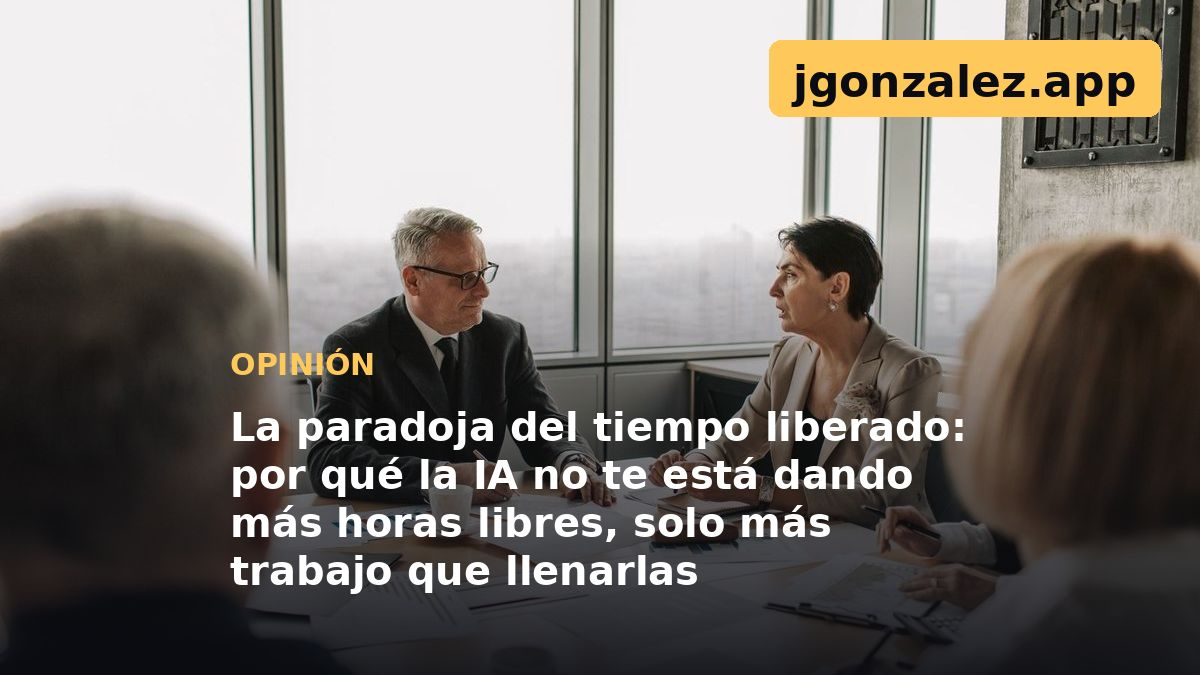
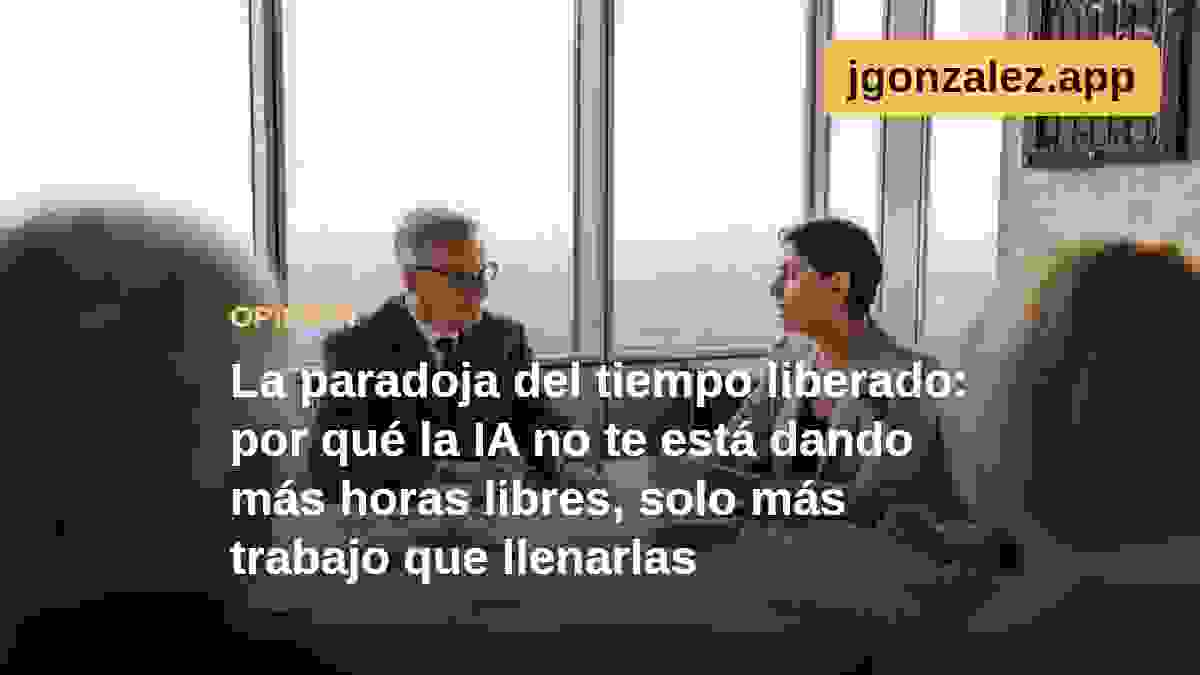
Actualiza Pulso de Mercado Daily 14/10/2026 con el cierre de mercado
CPI de septiembre y cierres reales del miércoles siguen sin poder
confirmarse pese a buscarlos después del cierre de mercado; se retiran del
Pendientes de la mañana la caracterización no corroborada de "peor sesión
en más de un año" de Citigroup (la caída de 5.6% sí se corrobora con una
segunda fuente) y el segundo fallecimiento de huracán Simón en Baja
California, que no se pudo confirmar.

Corrige también el campo imagen de la nota del ensayo de la paradoja del
tiempo liberado, que el auto-fix de build detectó apuntando a la foto
cruda del banco.

Changed region(s): [[0.0, 0.0, 1.0, 0.8711], [0.0617, 0.4044, 0.1542, 0.4978]]

diff --git a/content/blog/pulso-mercado-daily-2026-10-14.md b/content/blog/pulso-mercado-daily-2026-10-14.md
@@ -11,7 +11,7 @@ tags:
   - CPI
   - Huracán Simón
   - Peso mexicano
-resumen: 'El S&P 500 y el Nasdaq cerraron prácticamente planos el martes mientras el mercado digería un día de resultados bancarios mixto: Goldman Sachs subió con fuerza tras superar expectativas, mientras Citigroup habría tenido su peor sesión en más de un año pese a un reporte sólido. El peso se debilitó ligeramente aun con un IPC en máximos de dos meses y medio.'
+resumen: 'El mercado cerró el miércoles sin que pudiéramos confirmar todavía, ni el cierre real de los índices ni la cifra del CPI de septiembre publicada esta misma mañana por el BLS. Lo que sí quedó más claro es la dispersión del martes bancario: Goldman Sachs subió con fuerza, mientras Citigroup habría caído 5.6% pese a un reporte sólido, una reacción que una segunda fuente corrobora parcialmente.'
 imagen: /blog/portadas/mercados-hoy-fija.jpg
 socialImagen: /blog/social/pulso-mercado-daily-2026-10-14.jpg
 ---
@@ -32,9 +32,9 @@ socialImagen: /blog/social/pulso-mercado-daily-2026-10-14.jpg
 
 ## Market Regime
 
-El mercado cerró el martes prácticamente sin cambios en los índices principales, pero esa calma agregada escondió una dispersión real dentro del propio día de resultados bancarios: Goldman Sachs subió con fuerza tras superar ampliamente el consenso, mientras al menos una fuente reportó que Citigroup tuvo su peor sesión en más de un año pese a un reporte de utilidad por encima de expectativas —una combinación que, de confirmarse, sugeriría que el mercado está premiando la calidad específica del negocio de cada banco más que el titular de "superó o no superó" consenso. En México, el IPC extendió a cuatro sesiones consecutivas al alza y tocó su nivel más alto desde el 30 de julio, incluso con el peso debilitándose ligeramente frente al dólar.
+Llegamos al cierre del miércoles sin poder confirmar, con una fuente de mercado en tiempo real, los niveles reales de cierre de hoy para ninguno de los índices principales ni para el CPI de septiembre que el BLS publicó esta misma mañana —una brecha informativa notable, dado que se trata del dato macro central de la semana y de la sesión que el propio mercado ya cerró hace varias horas al momento de escribir esta actualización. Lo que sí pudimos precisar, con una segunda fuente que corrobora parcialmente la primera, es que Citigroup efectivamente cayó con fuerza el martes —alrededor de 5.6%, en volumen más de dos veces superior al promedio— pese a un reporte de utilidad por encima de consenso; retiramos de esta edición la caracterización de "su peor sesión en más de un año", que solo tuvo una fuente y no pudimos corroborar de forma independiente. Goldman Sachs, en cambio, subió con fuerza tras superar ampliamente el consenso. En México, el IPC había extendido a cuatro sesiones consecutivas al alza hasta el cierre del martes, tocando su nivel más alto desde el 30 de julio, aunque no pudimos confirmar todavía si esa racha continuó en la sesión de hoy.
 
-Scorecard: Trend → (índices en rango angosto, sin cambio de tendencia) · Breadth → (mixta, con dispersión notable dentro del sector bancario) · Momentum → (sin señal clara) · Volatility → (VIX en zona baja, sin confirmación exacta) · Rates → (10 años en ~5.22%, sin movimiento grande) · USD → (dólar ligeramente más fuerte frente al peso)
+Scorecard: Trend → (sin cierre confirmado de hoy; índices en rango angosto hasta el martes) · Breadth → (mixta, con dispersión notable dentro del sector bancario del martes) · Momentum → (sin señal clara) · Volatility → (sin cierre confirmado del VIX de hoy) · Rates → (10 años en ~5.22% hasta el martes, sin cierre de hoy confirmado) · USD → (sin cierre confirmado de hoy)
 
 ## Qué importó hoy
 
@@ -42,15 +42,15 @@ Scorecard: Trend → (índices en rango angosto, sin cambio de tendencia) · Bre
 
 **JPMorgan tuvo un tropiezo poco frecuente —EPS de $5.57 frente a un consenso de $5.90— pero su acción se movió relativamente poco, cerrando cerca de 0.9% a la baja pese a un crecimiento de 6% en utilidad neta.** La reacción contenida sugiere que el mercado no interpretó el resultado como una señal de alarma estructural, más bien como un bache puntual ligado en parte a pérdidas en valores de inversión que el propio banco reportó. Horizonte: Position.
 
-**Al menos una fuente reportó que Citigroup cayó 5.6% el martes, su peor sesión desde abril de 2025, pese a un EPS de $2.85 que superó el consenso de $2.67.** Esta cifra de caída no la pudimos corroborar todavía con una segunda fuente independiente, así que la presentamos con esa reserva explícita; de confirmarse, sería la divergencia más llamativa del día entre un resultado contable positivo y una reacción bursátil claramente negativa. Horizonte: Swing.
+**Citigroup cayó aproximadamente 5.6% el martes, en volumen más de dos veces superior al promedio, pese a un EPS de $2.85 que superó el consenso de $2.67.** Una segunda fuente corrobora la magnitud de la caída y el volumen elevado, aunque no pudimos confirmar de forma independiente la caracterización de "peor sesión en más de un año" que circuló en la cobertura inicial, así que la retiramos de esta edición. Sigue siendo la divergencia más llamativa del día entre un resultado contable positivo y una reacción bursátil claramente negativa. Horizonte: Swing.
 
 **El S&P/BMV IPC extendió a cuatro sesiones consecutivas de ganancias y cerró en 66,965.15 puntos (+0.33%), su nivel más alto desde el 30 de julio, incluso con el peso debilitándose frente al dólar a 18.3771 por dólar.** La combinación de un índice mexicano en máximos de dos meses y medio con una moneda local ligeramente más débil es una divergencia que vale la pena vigilar en las próximas sesiones, en vez de asumir que ambos activos deberían moverse siempre en la misma dirección. Horizonte: Position.
 
-**El CPI de septiembre en Estados Unidos, el dato macro central de la semana, estaba programado para esta misma mañana miércoles a las 8:30am hora del este, pero no logramos confirmar todavía la cifra real publicada por el BLS al momento de cerrar esta edición.** El consenso previo a la publicación apuntaba a una aceleración hacia 3.6%-3.7% anual, impulsada por precios de gasolina de septiembre, frente a 3.4% del mes anterior. Horizonte: Macro.
+**El CPI de septiembre en Estados Unidos se publicó esta misma mañana a las 8:30am hora del este, pero no logramos confirmar su cifra real ni siquiera varias horas después del cierre de mercado, pese a buscarla explícitamente en esta actualización de cierre de sesión.** Es una brecha informativa notable para el evento macro central de la semana. El consenso previo a la publicación apuntaba a una aceleración hacia 3.6%-3.7% anual, impulsada por precios de gasolina de septiembre, frente a 3.4% del mes anterior. Horizonte: Macro.
 
 ## Macro
 
-El dato central de hoy es el CPI de septiembre, cuya cifra real no pudimos confirmar todavía con el BLS ni con cobertura de prensa que reportara el número ya publicado —la ventana de búsqueda disponible al momento de escribir esta edición seguía mostrando únicamente previsiones previas a la publicación. El nowcast de la Fed de Cleveland del 7 de octubre ubicaba la expectativa en 3.60% general y 2.39% subyacente; el mes anterior (agosto) cerró en 3.4% general y 2.4% subyacente. Mañana jueves siguen en calendario las ventas minoristas de septiembre, el PPI y el Philly Fed Index.
+El dato central de hoy es el CPI de septiembre, publicado esta mañana por el BLS, cuya cifra real seguimos sin poder confirmar incluso en esta actualización de cierre de sesión —la cobertura disponible al momento de escribir seguía mostrando únicamente previsiones previas a la publicación, sin un artículo que reportara ya el número oficial. El nowcast de la Fed de Cleveland del 7 de octubre ubicaba la expectativa en 3.60% general y 2.39% subyacente; el mes anterior (agosto) cerró en 3.4% general y 2.4% subyacente. Mañana jueves siguen en calendario las ventas minoristas de septiembre, el PPI y el Philly Fed Index.
 
 ## Tasas y bonos
 
@@ -85,30 +85,31 @@ No localizamos con confianza evidencia de un cambio estructural nuevo para esta 
 
 ## Riesgos
 
-El riesgo principal de esta edición sigue siendo informativo: no pudimos confirmar todavía la cifra real del CPI de hoy, pese a ser el evento macro central de la semana, ni corroborar con una segunda fuente el reporte de una caída fuerte en Citigroup. En el fondo del mercado, el riesgo real a vigilar es si la dispersión dentro del sector bancario —fuerte en Goldman, contenida en JPMorgan, posiblemente negativa en Citigroup— es ruido de un solo día o el inicio de una diferenciación más duradera entre los grandes bancos conforme avance la temporada de resultados.
+El riesgo principal de esta edición sigue siendo informativo, y se agravó respecto a la edición de la mañana: ni siquiera varias horas después del cierre de mercado pudimos confirmar la cifra real del CPI de hoy, el evento macro central de la semana, ni los niveles de cierre de ningún índice o activo de la sesión de hoy. En el fondo del mercado, el riesgo real a vigilar es si la dispersión dentro del sector bancario del martes —fuerte en Goldman, contenida en JPMorgan, negativa en Citigroup— es ruido de un solo día o el inicio de una diferenciación más duradera entre los grandes bancos conforme avance la temporada de resultados.
 
 ## Qué vigilar mañana
 
-- Confirmación de la cifra real del CPI de septiembre, publicada hoy por la mañana.
+- Confirmación de la cifra real del CPI de septiembre, publicada ayer por la mañana y todavía sin localizar al cierre de esta edición.
+- Confirmación de los niveles de cierre de hoy miércoles para todos los activos del Market Snapshot.
 - Reporte estimado de Morgan Stanley y, de confirmarse, de Bank of America.
-- Segunda fuente que confirme o descarte la caída reportada de 5.6% en Citigroup el martes.
 - Ventas minoristas de septiembre y PPI, además del Philly Fed Index, el jueves.
-- Actualización sobre el huracán Simón y su posible impacto en la costa de Sinaloa.
+- Actualización sobre el huracán Simón y si ya hizo landfall en la costa de Sinaloa.
 
 ## Pendientes de esta edición
 
-- CPI de septiembre: no localizamos todavía la cifra real publicada por el BLS esta mañana, pese a ser el evento macro central de la semana.
-- Cierre exacto del VIX, del Treasury a 2 y 30 años, de Brent, oro y cobre para la sesión del martes 13 de octubre.
-- Cierre exacto del WTI: fuentes consultadas citan cifras entre $93.74 y $95.70 por barril sin que pudiéramos confirmar un valor único y confiable.
-- Reacción bursátil del martes de Wells Fargo: una fuente reporta una caída de aproximadamente 3%, pero no la corroboramos con una segunda fuente independiente.
-- Caída reportada de 5.6% en Citigroup el martes: proviene de una sola fuente consultada; no pudimos confirmarla con una segunda fuente independiente pese a buscarla explícitamente.
-- Huracán Simón: no logramos confirmar si ya hizo landfall en la costa de Sinaloa al momento de escribir esta edición; el reporte más reciente disponible (12 de octubre) lo ubicaba como categoría 2 con pronósticos de impacto entre el miércoles y el jueves, y con un segundo fallecimiento reportado en Ensenada, Baja California, además del ya confirmado en Chilpancingo, Guerrero.
+- CPI de septiembre: pese a buscarlo explícitamente varias horas después de su publicación matutina y del cierre de mercado, seguimos sin localizar la cifra real publicada por el BLS. Es el pendiente más relevante de esta edición.
+- Cierre real de hoy miércoles 14 de octubre para S&P 500, Nasdaq Composite, Russell 2000, Dow Jones, VIX, S&P/BMV IPC, USD/MXN, Treasury a 10 años, WTI, Brent, oro y cobre: no localizamos con confianza ninguno de estos niveles pese a que la sesión ya cerró.
+- Cierre exacto del VIX, del Treasury a 2 y 30 años, de Brent, oro y cobre para la sesión del martes 13 de octubre: siguen sin confirmarse.
+- Reacción bursátil del martes de Wells Fargo: no pudimos confirmar ninguna cifra de movimiento de la acción con una fuente que reportara el resultado real (solo encontramos previsiones previas al reporte).
+- "Peor sesión en más de un año" de Citigroup: la magnitud de la caída (~5.6%) y el volumen elevado sí quedaron corroborados por una segunda fuente, pero esa caracterización específica solo tuvo una fuente y la retiramos de esta edición.
+- Huracán Simón: no logramos confirmar si ya hizo landfall en la costa de Sinaloa al cierre de esta edición. Los reportes más recientes disponibles (12 de octubre) son además inconsistentes entre sí sobre su categoría (2 según una fuente, 3 según otra) y su ventana de impacto (miércoles noche o jueves). Retiramos de esta edición el segundo fallecimiento en Ensenada, Baja California, que no pudimos corroborar; el único fallecimiento confirmado sigue siendo el de Chilpancingo, Guerrero.
 
 ## Fuentes
 
 - [CNBC — cobertura en vivo de resultados bancarios, 13 de octubre de 2026](https://www.cnbc.com/2026/10/13/bank-earnings-live-updates.html) — EPS de los cuatro bancos y reacción bursátil inicial
 - [TheStreet — resumen de mercado, 13 de octubre de 2026](https://www.thestreet.com/stock-market-today/stock-market-today-dow-jones-sp-500-nasdaq-updates-oct-13-2026) — cierres de S&P 500, Nasdaq y Dow Jones
 - [24/7 Wall St. — reacción de acciones bancarias tras resultados](https://247wallst.com/investing/2026/10/13/goldman-sachs-rises-on-equities-led-earnings-beat-jpmorgan-chase-treads-water-wells-fargo-declines-3/) — Goldman Sachs al alza, JPMorgan plano, Wells Fargo a la baja
+- [QuiverQuant — Citigroup cae pese a resultados, presión de yields en bancos](https://www.quiverquant.com/news/Citigroup+Shares+Fall+as+Rising+Treasury+Yields+Weigh+on+Bank+Stocks) — segunda fuente que corrobora la magnitud de la caída de Citigroup y el volumen elevado
 - [Rio Times — cierre de mercados en México, 13 de octubre de 2026](https://www.riotimesonline.com/mexico-markets-ipc-peso-tuesday-october-13-2026) — cierre del S&P/BMV IPC
 - [El Financiero — tipo de cambio peso-dólar, 13 de octubre de 2026](https://www.elfinanciero.com.mx/mercados/2026/10/13/peso-dolar-tipo-de-cambio-hoy-13-de-octubre-de-2026/) — cierre de USD/MXN de Banxico
 - Nowcast de inflación de la Fed de Cleveland, 7 de octubre de 2026, para el CPI de septiembre

diff --git a/content/blog/paradoja-tiempo-liberado-ia-parkinson-trabajo-conocimiento.md b/content/blog/paradoja-tiempo-liberado-ia-parkinson-trabajo-conocimiento.md
@@ -21,7 +21,7 @@ datosClave:
     etiqueta: 'reducción de tiempo reportada en tareas específicas automatizadas con IA generativa, según estudios de adopción empresarial de 2025-2026'
   - valor: '0%'
     etiqueta: 'reducción correspondiente en la jornada laboral promedio reportada en esas mismas organizaciones'
-imagen: /blog/portadas/negocios-reunion-5.jpg
+imagen: /blog/portadas/paradoja-tiempo-liberado-ia-parkinson-trabajo-conocimiento.jpg
 gancho: 'La IA le ahorró tres horas a un analista esta semana. Esas tres horas no se fueron a su casa con él. Se las llenó una junta que antes no existía.'
 socialImagen: /blog/social/paradoja-tiempo-liberado-ia-parkinson-trabajo-conocimiento.jpg
 postura:
